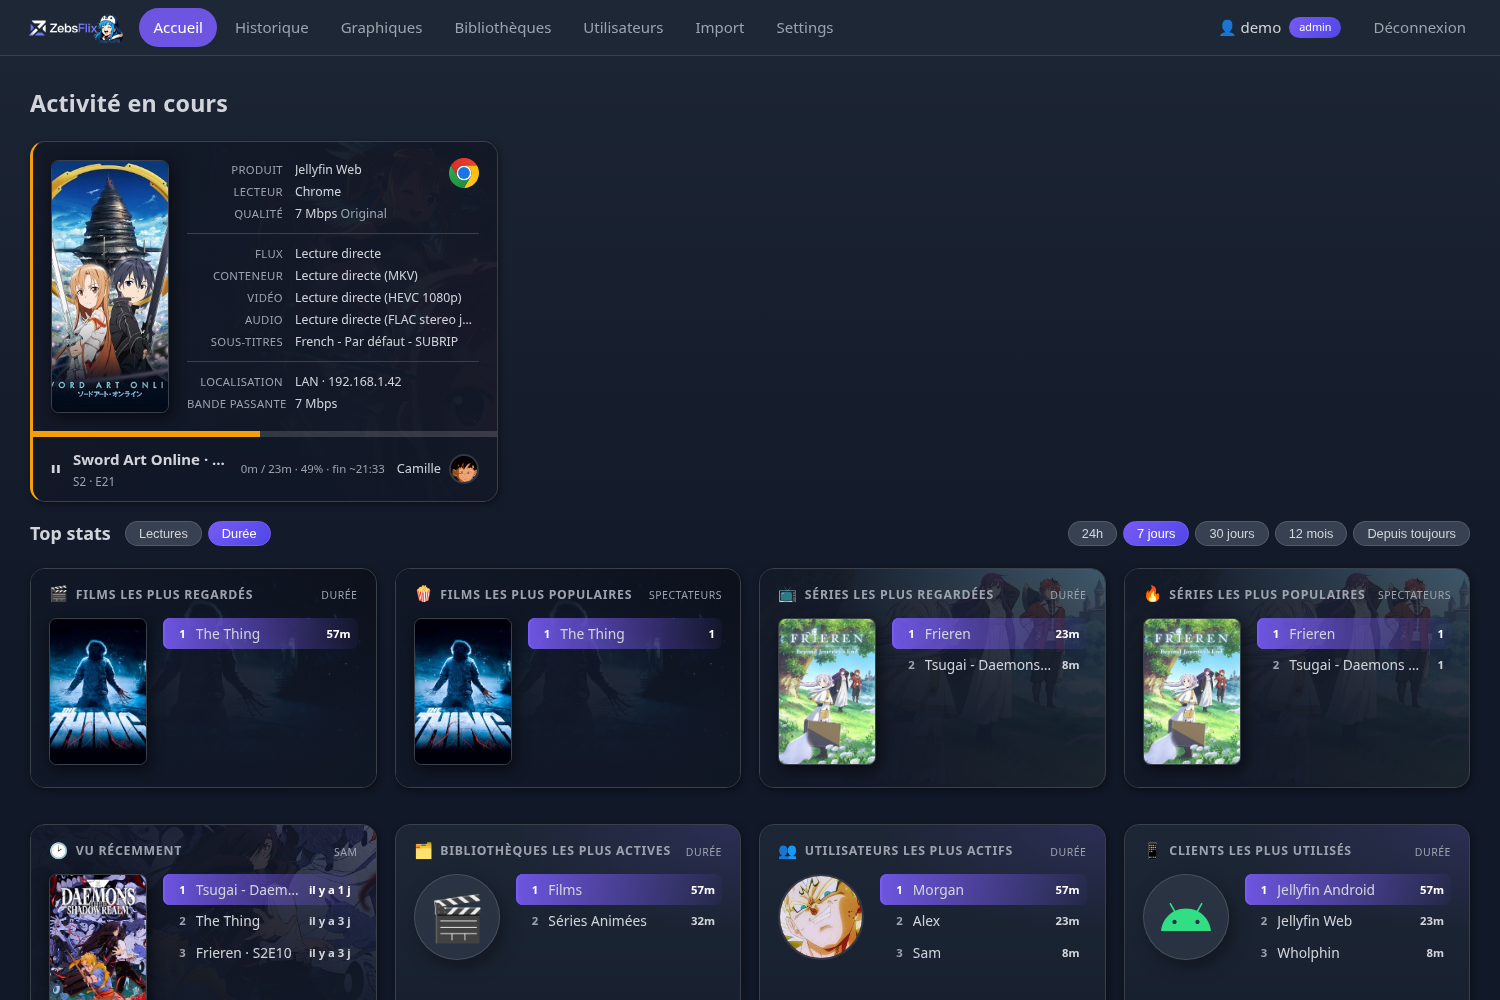
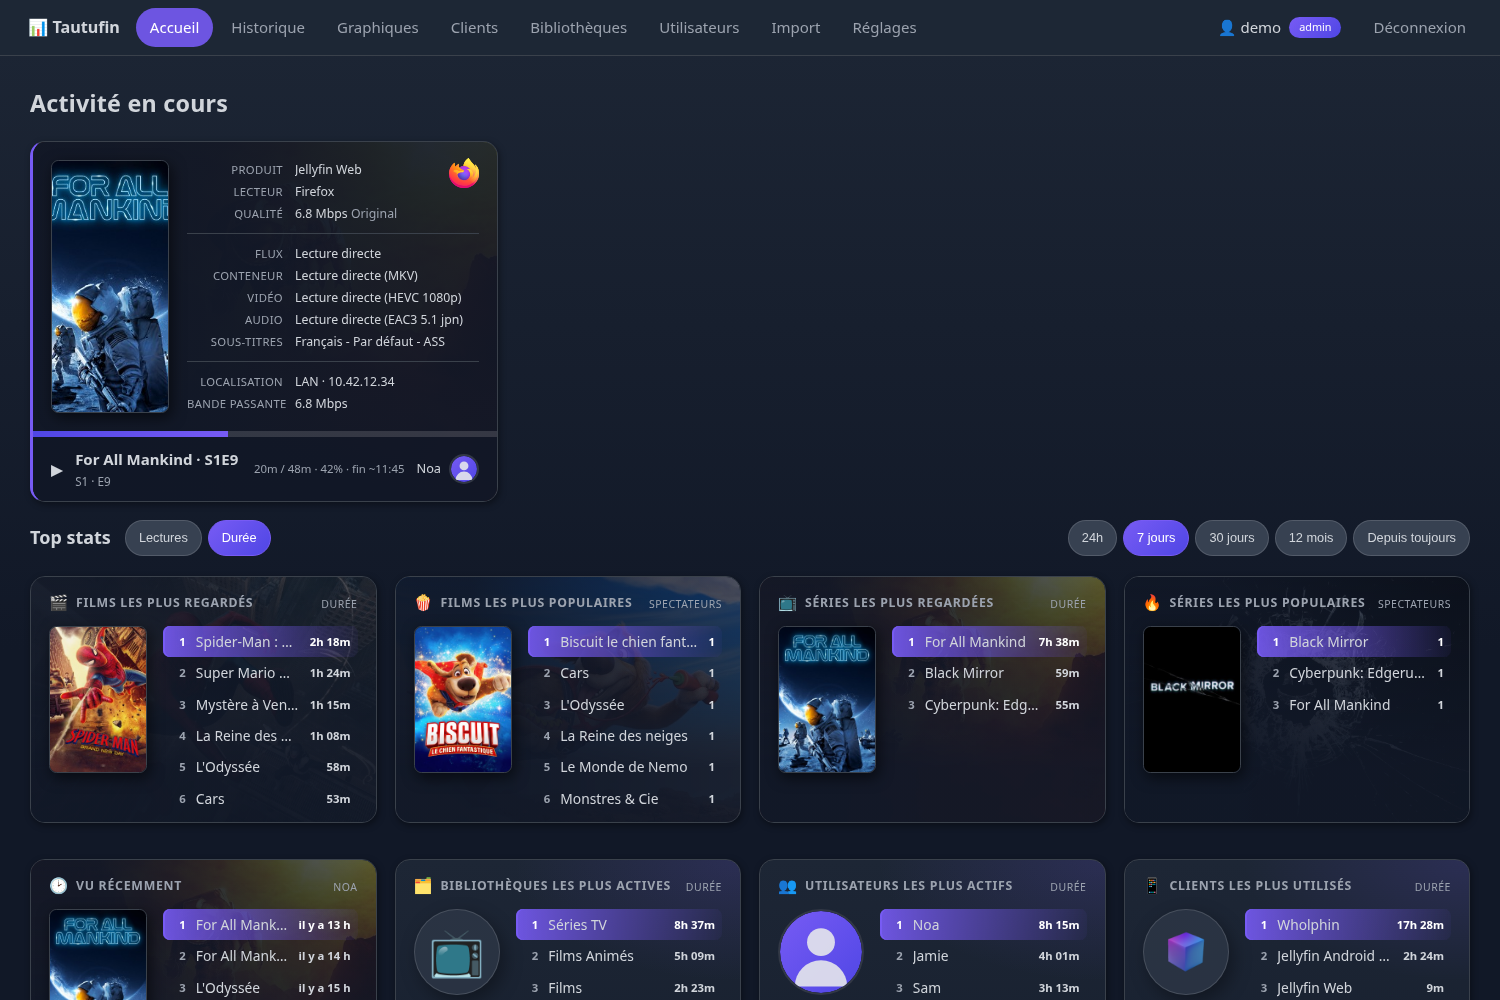
docs: refresh README screenshots
The screenshots dated from v0.1 (former brand, custom logo, "Settings"
menu). They are retaken on v0.3.3 from a demo database with fictitious
user names, devices and IP addresses, served without any connection to a
Jellyfin server.

diff --git a/README.md b/README.md
@@ -10,7 +10,8 @@ utilisateurs, auto-hébergé.
 
 ![Accueil](docs/screenshots/accueil.png)
 
-> Les captures de ce README utilisent des **noms d'utilisateurs anonymisés**.
+> Les captures de ce README proviennent d'une base de démonstration : **noms
+> d'utilisateurs, appareils et adresses IP sont fictifs**.
 
 ---
 
